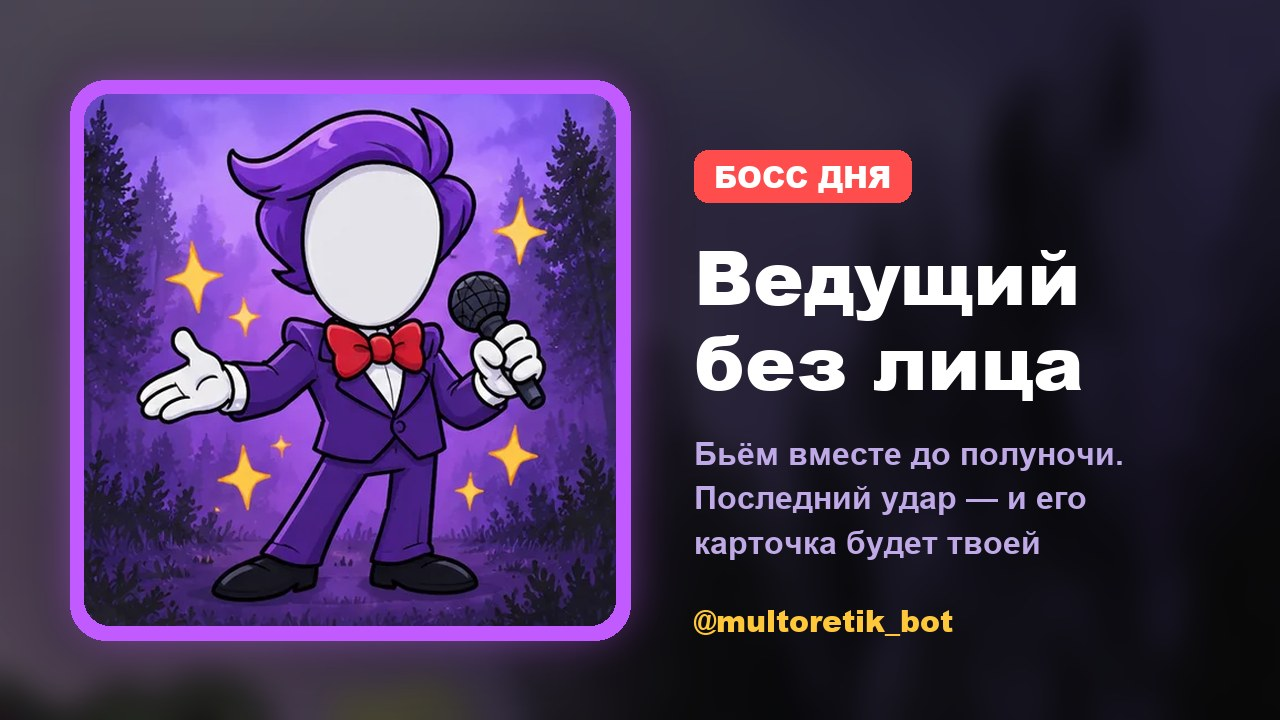
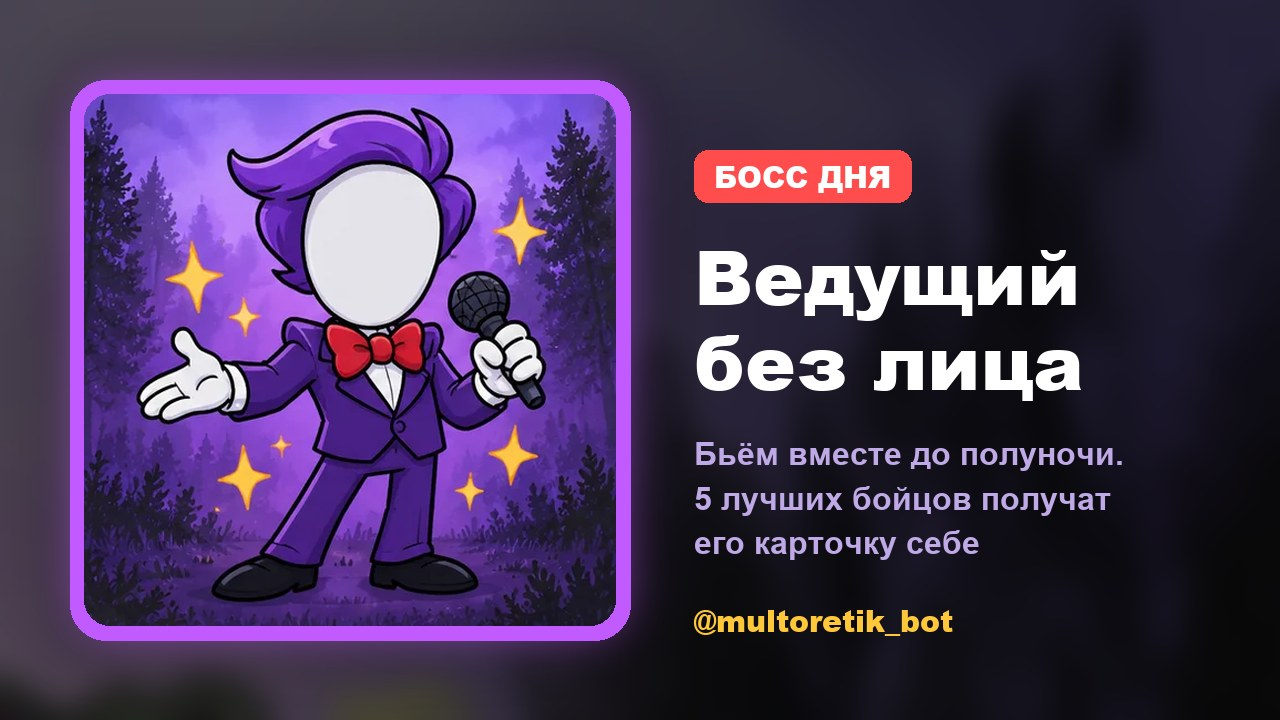
Босс: 25 000 здоровья, карточка — 5 лучшим по ударам

Changed region(s): [[0.5312, 0.6722, 0.875, 0.7944]]

diff --git a/index.html b/index.html
@@ -283,7 +283,7 @@ nav button.on{background:var(--wood-dark);color:var(--gold)}
 .wbox{width:100%;max-width:400px;text-align:center}
 .wbox h3{font-size:20px}
 .btn.ghost{background:transparent;border:2px solid rgba(201,168,255,.35);border-radius:14px;color:var(--muted);-webkit-text-stroke:0;font-size:16px;padding:11px;margin-top:10px;box-shadow:none}
-.bossp .btop div:nth-child(n+4){display:none}
+.bossp .btop div:nth-child(n+6){display:none}
 @media (prefers-reduced-motion:reduce){*{animation:none!important;transition:none!important}}
 </style>
 </head>
@@ -641,13 +641,13 @@ async function loadBoss(quiet) {
 function renderBoss() {
   const b = B.st;
   if (!b || !b.card) { $("#boss").innerHTML = `<div class="muted">Босс скоро появится</div>`; return; }
-  const claim = b.canClaim ? `<button class="btn gold" id="bclaim">${icon("i-gift")}${b.killer ? "Забрать карточку босса" : "Забрать награду"}</button>`
+  const claim = b.canClaim ? `<button class="btn gold" id="bclaim">${icon("i-gift")}${(b.top || []).some((t) => t.me) ? "Забрать карточку босса" : "Забрать награду"}</button>`
     : b.defeated && b.claimed ? `<p class="muted" style="margin-top:12px">Награда у тебя. Завтра — новый босс</p>`
     : b.defeated ? `<p class="muted" style="margin-top:12px">Победили без тебя — завтра новый босс</p>` : "";
   $("#boss").innerHTML = `<div class="bh"><span class="badge2">${icon("i-sword", 18)}Босс дня</span><span class="muted" id="bleft">${b.defeated ? "повержен" : "сбежит через " + mskLeft()}</span></div>
     <button class="bossart ${b.defeated ? "dead" : ""}" id="bossart" aria-label="Ударить босса">${cardHtml(b.card, 0, true)}${b.defeated ? `<span class="deadtag">Повержен!</span>` : ""}</button>
     <div class="hp"><i id="hpbar"></i><span id="hptext"></span></div>
-    <div class="bmeta"><span>твои удары: <b id="bmy">0</b></span><span>последний удар — карточка босса</span></div>
+    <div class="bmeta"><span>твои удары: <b id="bmy">0</b></span><span>топ-5 по ударам — карточка босса</span></div>
     ${claim}<div class="btop" id="btop"></div>`;
   updBoss();
   const art = $("#bossart");
@@ -658,7 +658,7 @@ function renderBoss() {
     const r = await call("boss_claim");
     if (r.error) { toast(r.error); $("#bclaim").disabled = false; return; }
     B.st.canClaim = false; B.st.claimed = true; renderBoss();
-    drop(r.killer ? "Последний удар — твой!" : "Босс повержен!", `+${r.coins} монет · ${r.killer ? "карточка босса твоя" : "награда за командную победу"}`, r.cards);
+    drop(r.best ? "Ты в пятёрке лучших!" : "Босс повержен!", `+${r.coins} монет · ${r.best ? "карточка босса твоя" : "награда за командную победу"}`, r.cards);
   };
 }
 function updBoss() {
@@ -691,7 +691,7 @@ async function flushHits() {
   if (r.error) { toast(r.error); return; }
   const b = B.st;
   b.hp = Math.max(0, r.hp - B.pending); b.my = r.my + B.pending;
-  if (r.hp <= 0) { B.pending = 0; if (r.killer) toast("Ты нанёс последний удар!"); return loadBoss(); }
+  if (r.hp <= 0) { B.pending = 0; return loadBoss(); }
   updBoss();
   if (B.pending && !B.timer) B.timer = setTimeout(flushHits, 1000);
 }
